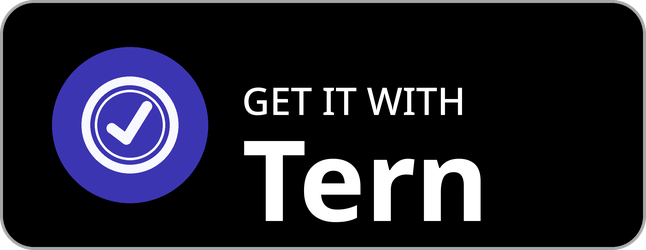
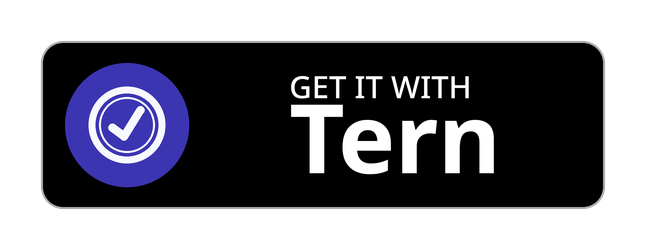
Draw the Tern badge inside F-Droid's margin
F-Droid's get-it-on.png keeps a 41 px transparent margin around the badge,
and ours filled the whole 646 by 250 picture, so at the same height it read
about half again as big. Same margin now, a larger seal, and the two lines
of text centred in the space beside it (#6).

diff --git a/tools/make-badge.py b/tools/make-badge.py
@@ -3,8 +3,8 @@
 
   tools/make-badge.py [--font-dir <folder with Noto Sans>]
 
-646 by 250 pixels with transparent corners, the size of F-Droid's badge, so the two sit side by
-side at the same height. The seal and its colours come from make-banner.py, which takes them from
+646 by 250 pixels with the badge drawn inside a 41 pixel transparent margin, the way F-Droid's is, so
+the two match when they sit side by side at the same height. The seal and its colours come from make-banner.py, which takes them from
 the launcher icon. Noto Sans is under the SIL Open Font License 1.1; only its drawn letters end up
 in the picture.
 """
@@ -17,6 +17,7 @@ OUT = ROOT / "site/badge.png"
 ICON = ROOT / "site/icon.png"
 ICON_SIZE = 256
 WIDTH, HEIGHT = 646, 250
+MARGIN = 41
 FINER = 4
 EDGE = (166, 166, 166)
 INK = (0, 0, 0)
@@ -36,23 +37,32 @@ def main():
     w, h = WIDTH * FINER, HEIGHT * FINER
     picture = Image.new("RGBA", (w, h), (0, 0, 0, 0))
     draw = ImageDraw.Draw(picture)
-    corner = 34 * FINER
-    draw.rounded_rectangle((0, 0, w - 1, h - 1), radius=corner, fill=EDGE)
-    border = 3 * FINER
-    draw.rounded_rectangle((border, border, w - 1 - border, h - 1 - border), radius=corner - border, fill=INK)
+    m = MARGIN * FINER
+    corner = 22 * FINER
+    draw.rounded_rectangle((m, m, w - 1 - m, h - 1 - m), radius=corner, fill=EDGE)
+    border = 2 * FINER
+    draw.rounded_rectangle((m + border, m + border, w - 1 - m - border, h - 1 - m - border),
+                           radius=corner - border, fill=INK)
 
-    radius = 78 * FINER
-    cx, cy = 52 * FINER + radius, h // 2
+    radius = 62 * FINER
+    cx, cy = m + 24 * FINER + radius, h // 2
     draw.ellipse((cx - radius, cy - radius, cx + radius, cy + radius), fill=ground)
     banner.seal(draw, cx, cy, radius * 0.62, paper)
 
-    left = cx + radius + 34 * FINER
-    small = ImageFont.truetype(str(fonts / "NotoSans-Medium.ttf"), 38 * FINER)
-    large = ImageFont.truetype(str(fonts / "NotoSans-Bold.ttf"), 112 * FINER)
-    draw.text((left, cy - 10 * FINER), "GET IT WITH", font=small, fill=WHITE, anchor="ls")
-    draw.text((left - large.getbbox("Tern", anchor="ls")[0], cy + 96 * FINER), "Tern", font=large, fill=WHITE, anchor="ls")
-    right = draw.textbbox((left, cy + 96 * FINER), "Tern", font=large, anchor="ls")[2]
-    if right > w - 40 * FINER:
+    space = (cx + radius + 20 * FINER, w - m - 24 * FINER)
+    small = ImageFont.truetype(str(fonts / "NotoSans-Medium.ttf"), 31 * FINER)
+    large = ImageFont.truetype(str(fonts / "NotoSans-Bold.ttf"), 96 * FINER)
+    gap = 6 * FINER
+    top = draw.textbbox((0, 0), "GET IT WITH", font=small, anchor="lt")
+    name = draw.textbbox((0, 0), "Tern", font=large, anchor="lt")
+    block = (top[3] - top[1]) + gap + (name[3] - name[1])
+    y = cy - block // 2
+    wide = max(top[2] - top[0], name[2] - name[0])
+    left = (space[0] + space[1] - wide) // 2
+    draw.text((left - top[0], y - top[1]), "GET IT WITH", font=small, fill=WHITE, anchor="lt")
+    y += (top[3] - top[1]) + gap
+    draw.text((left - name[0], y - name[1]), "Tern", font=large, fill=WHITE, anchor="lt")
+    if left < space[0] or left + wide > space[1]:
         raise SystemExit("the name does not fit the badge")
 
     OUT.parent.mkdir(parents=True, exist_ok=True)
